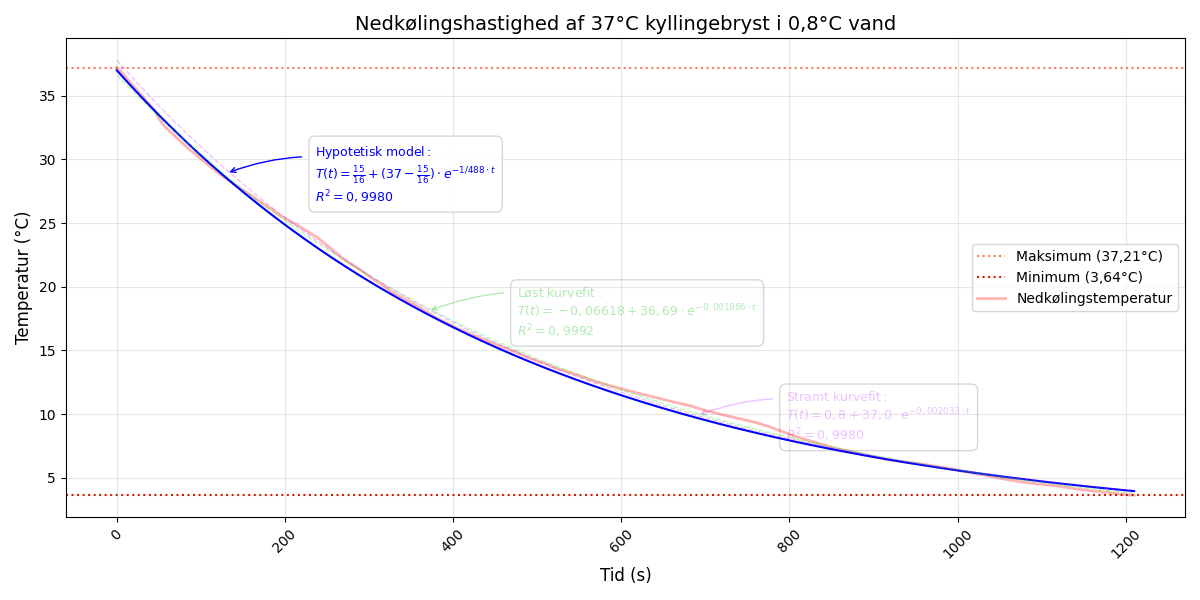
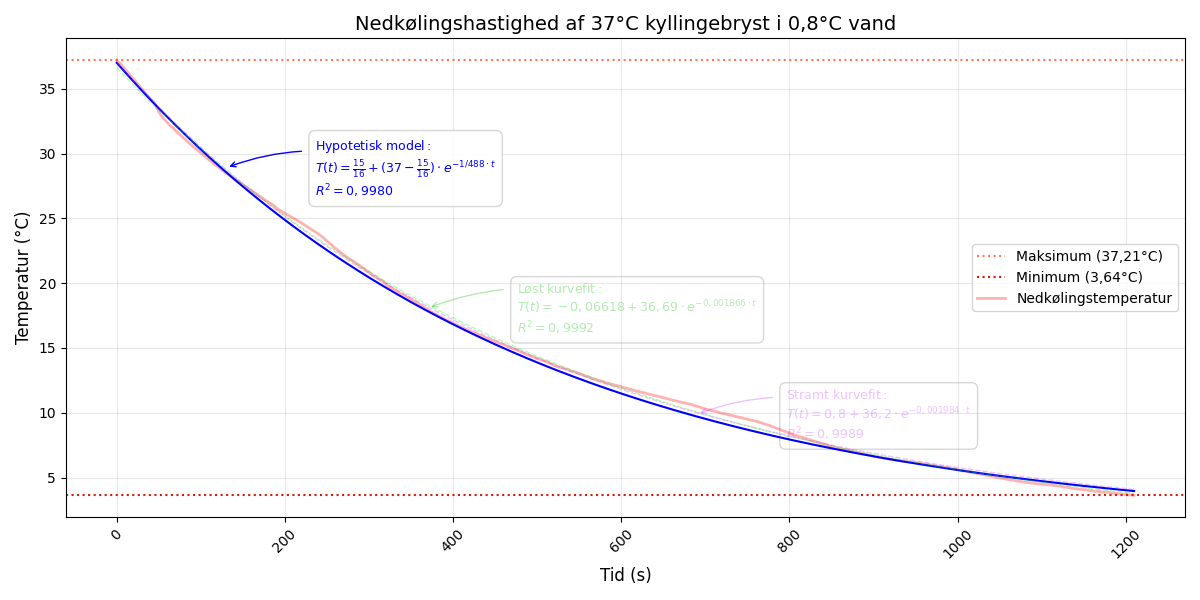
fix: new values for stamt kurvefit

diff --git a/render.py b/render.py
@@ -15,7 +15,7 @@ def expLoose(t):
     return -0.06618+36.69*np.exp(-0.001866*t)
 
 def expStrict(t):
-    return 0.8+37.0*np.exp(-0.002033*t)
+    return 0.8+36.2*np.exp(-0.001984*t)
 
 def get_R2(func, t, T):
     values = func(t)
@@ -207,7 +207,7 @@ plt.plot(df['tid'], expStrict(df['tid']),
 # Tilføj annotering
 R2_expStrictFormatted = f"{R2_expStrict:.4f}".replace('.', ',')
 text = (r'$\mathrm{Stramt\;kurvefit:}$' + '\n' +
-        r'$T(t)=0,8+37,0\cdot e^{-0,002033\cdot t}$' + '\n' +
+        r'$T(t)=0,8+36,2\cdot e^{-0,001984\cdot t}$' + '\n' +
         f'$R^{{2}}={R2_expStrictFormatted}$')
 x_pos = df['tid'].iloc[mid_idx + 40]
 y_pos = hypothetical(df['tid']).iloc[mid_idx + 40]
